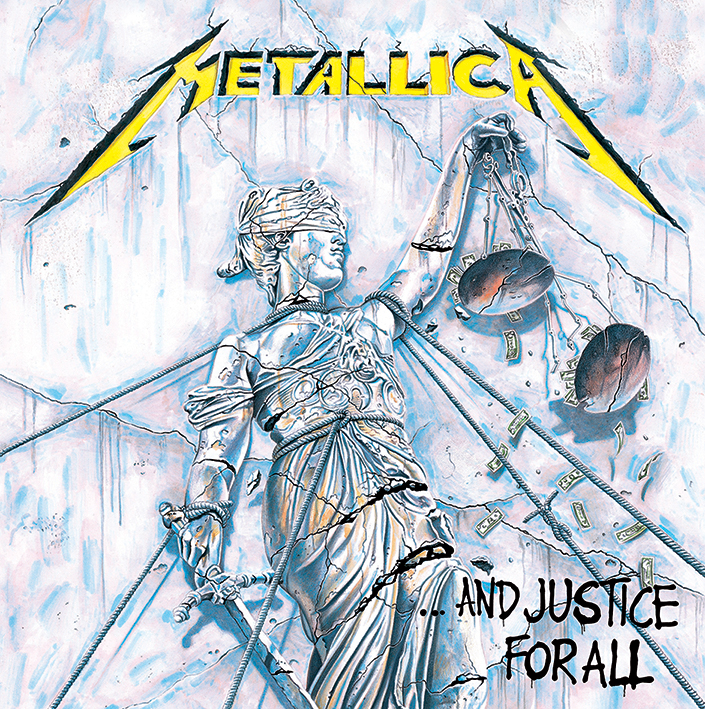
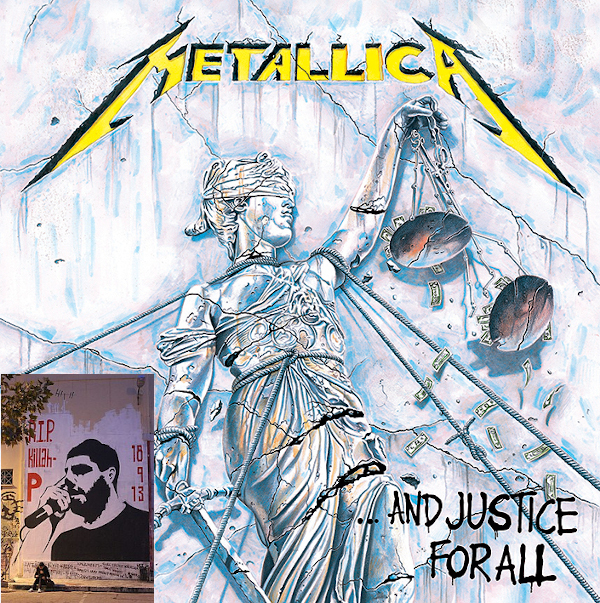
index, tribute to Pavlos Fyssas

diff --git a/index.html b/index.html
@@ -398,7 +398,8 @@
 <header id="header" class="fluid col-1-1">
 
     <h1 class="fluid col-1-4" style="margin-bottom:20px;">Demos and Showcases</h1>
-    <div class="fluid col-3-4"><a href="https://www.youtube.com/watch?v=lfg0_FbIqqw"><img src="image.jpg" alt="justice for all" /></a></div>
+    <!--<div class="fluid col-3-4"><a href="https://www.youtube.com/watch?v=lfg0_FbIqqw"><img src="image.jpg" alt="justice for all" /></a></div>-->
+    <div class="fluid col-3-4"><a href="https://www.youtube.com/watch?v=qUVGzyrUmgA"><img src="image.jpg" alt="justice for all Pavlos Fyssas" /></a></div>
     <div class="fluid col-1-1 text-right" style="margin-top: 10px; padding-right: 20px;">
     <a href="https://stackexchange.com/users/4021056/nikos-m"><img src="https://stackexchange.com/users/flair/4021056.png" width="208" height="58" alt="profile for Nikos M. on Stack Exchange, a network of free, community-driven Q&amp;A sites" title="profile for Nikos M. on Stack Exchange, a network of free, community-driven Q&amp;A sites" /></a>
     </div>
